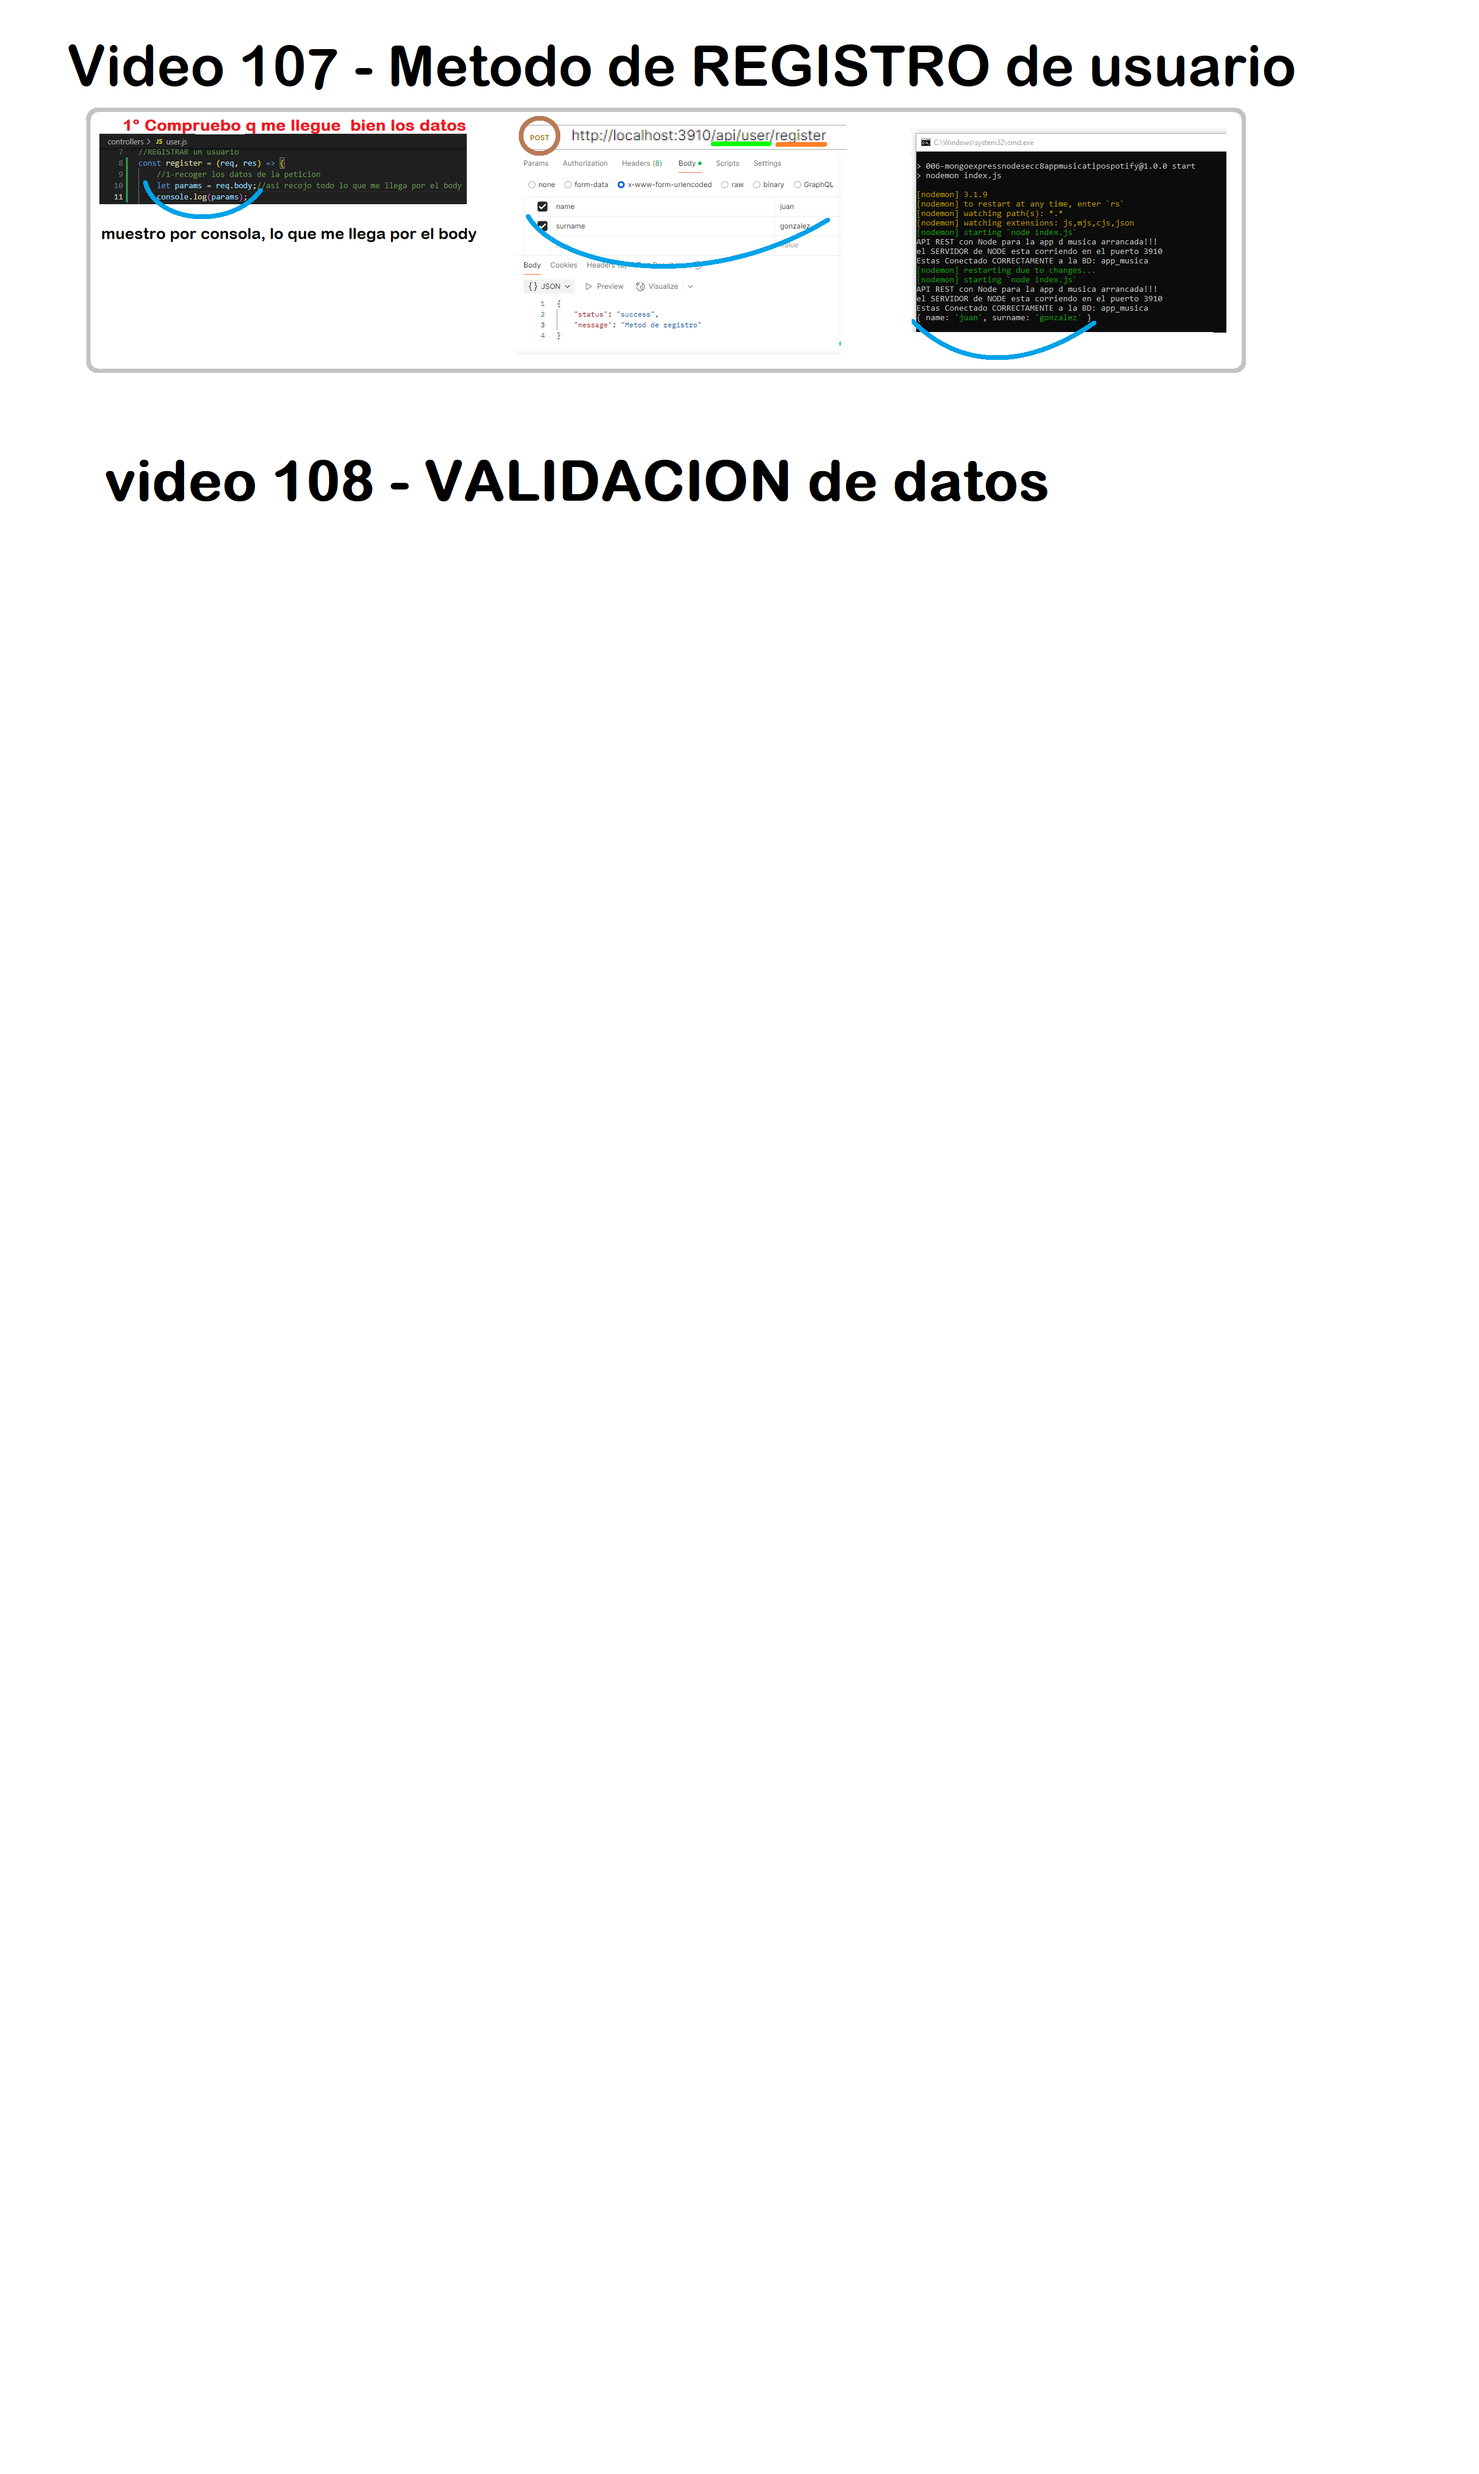
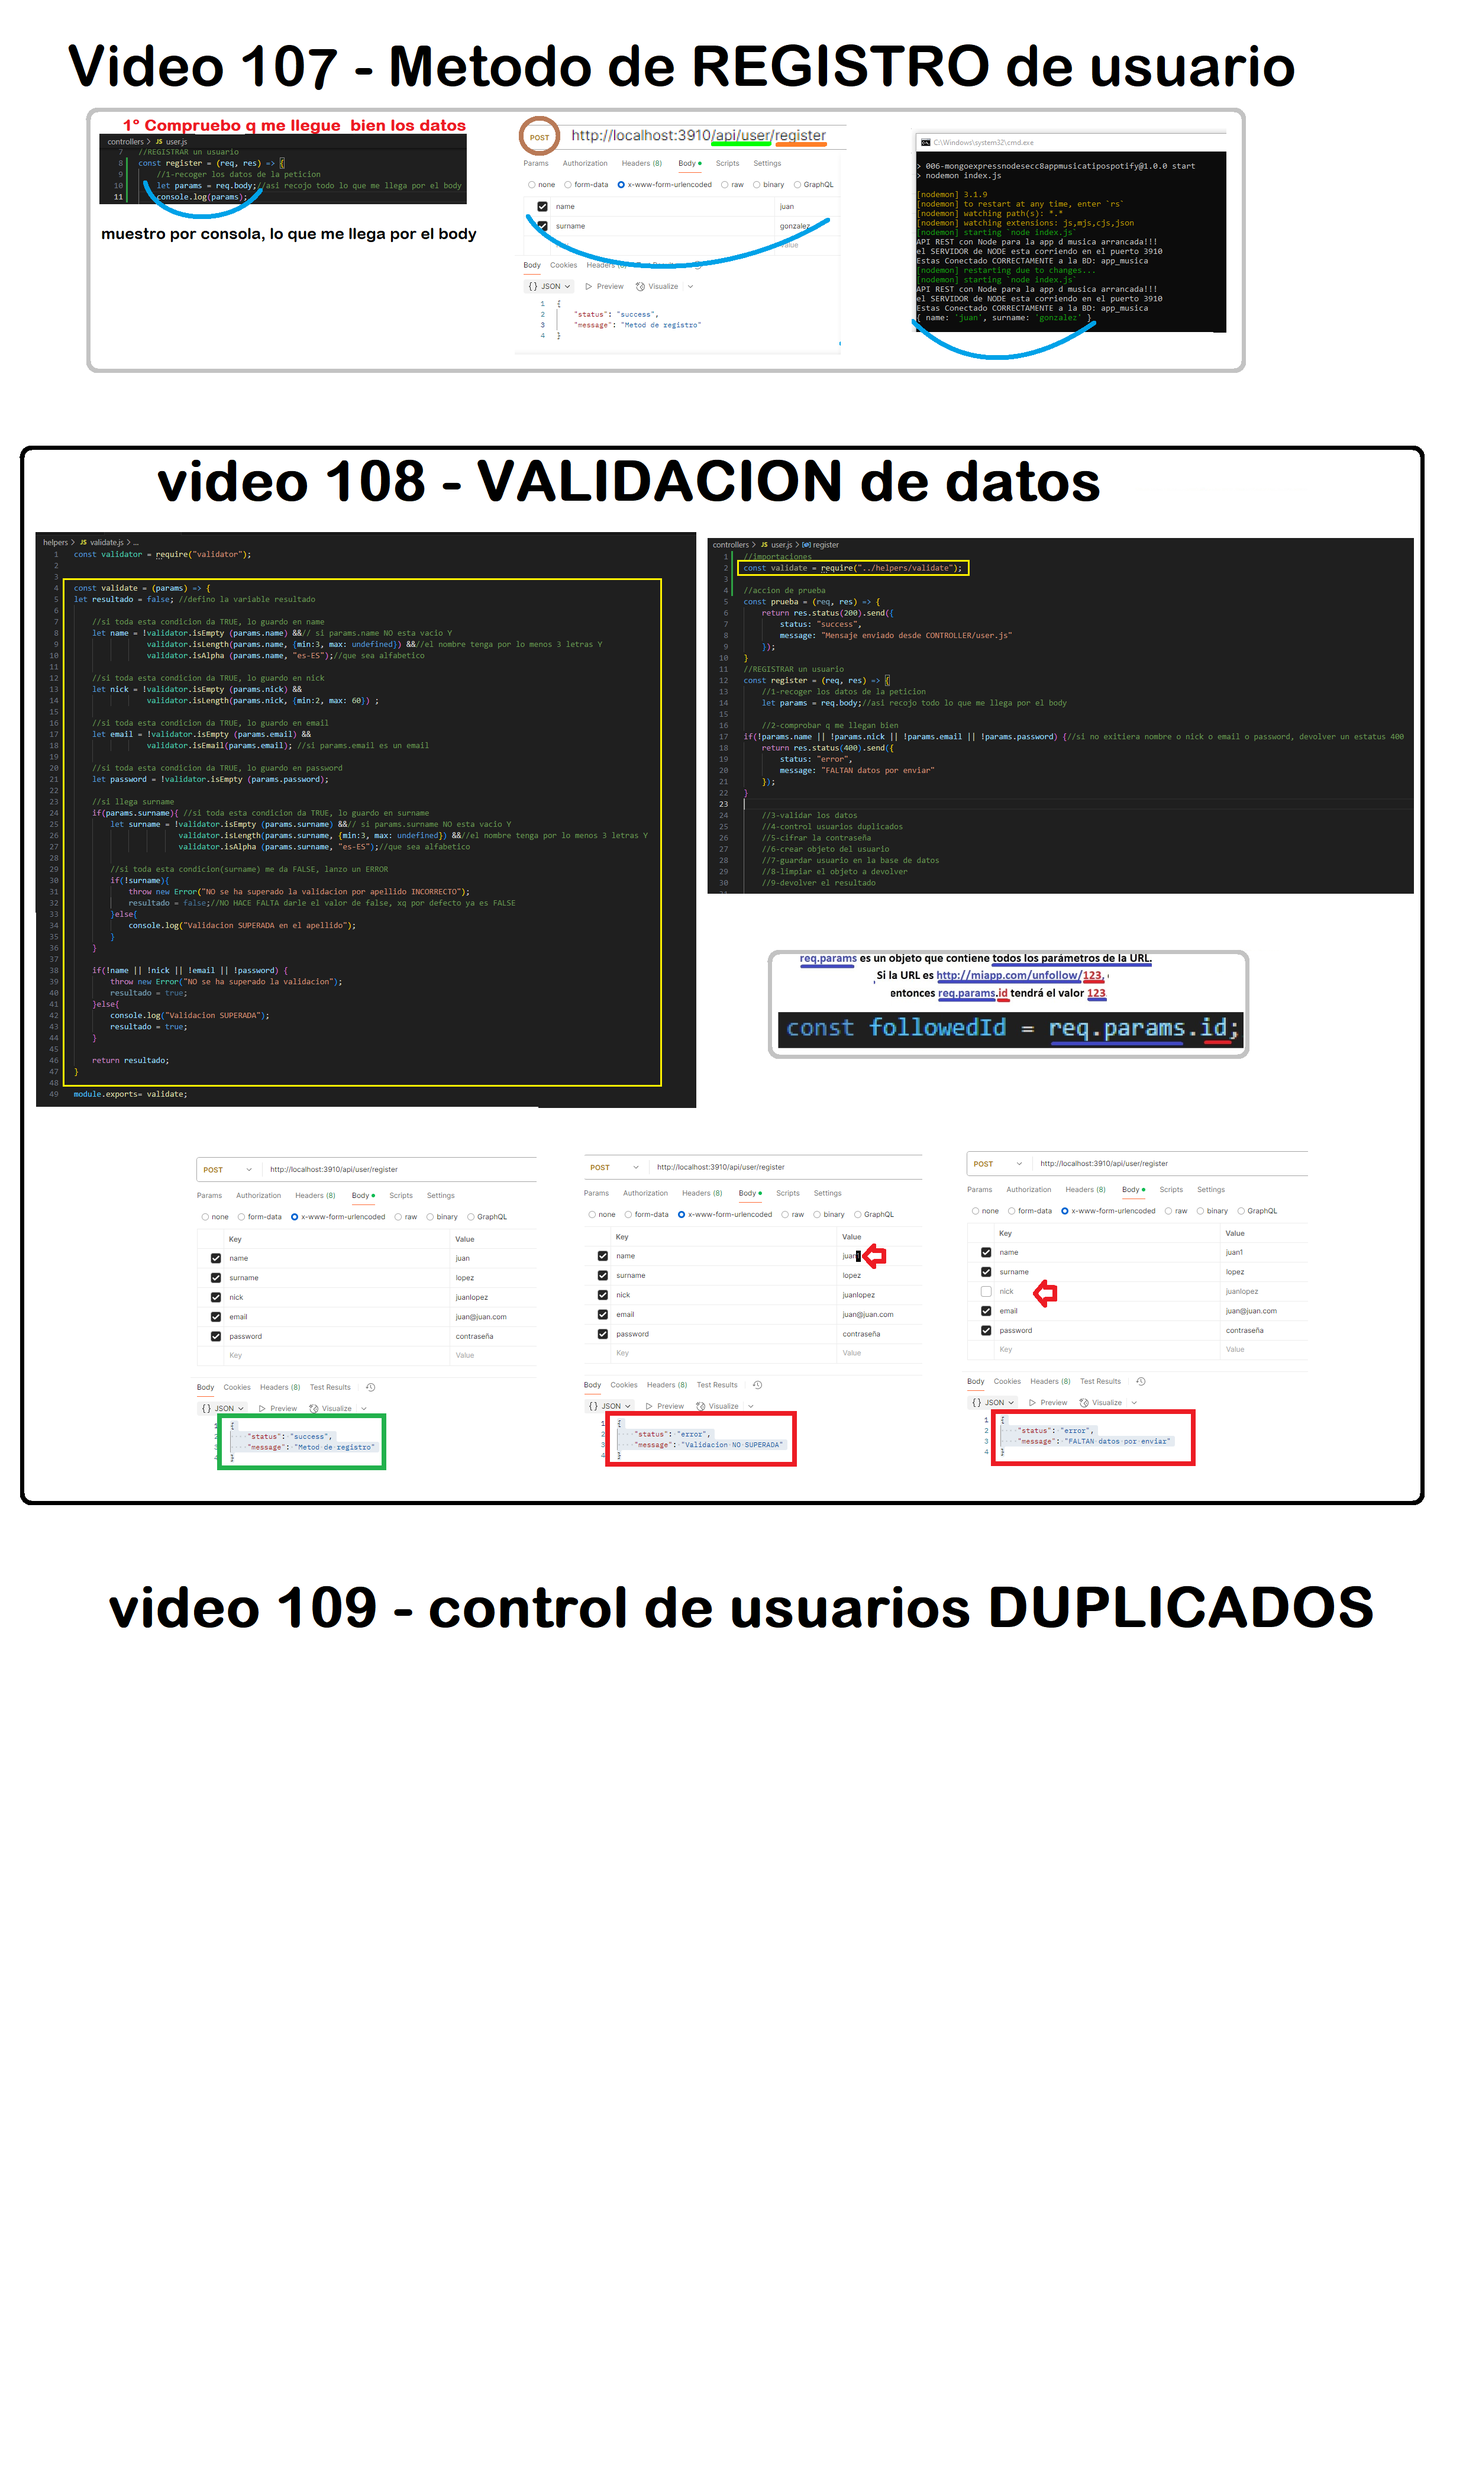
7° V.108 validacion de datos

diff --git a/helpers/validate.js b/helpers/validate.js
@@ -1,0 +1,49 @@
+const validator = require("validator");
+
+
+const validate = (params) => {
+let resultado = false; //defino la variable resultado
+
+    //si toda esta condicion da TRUE, lo guardo en name
+    let name = !validator.isEmpty (params.name) &&// si params.name NO esta vacio Y
+                validator.isLength(params.name, {min:3, max: undefined}) &&//el nombre tenga por lo menos 3 letras Y
+                validator.isAlpha (params.name, "es-ES");//que sea alfabetico
+
+    //si toda esta condicion da TRUE, lo guardo en nick
+    let nick = !validator.isEmpty (params.nick) &&
+                validator.isLength(params.nick, {min:2, max: 60}) ;
+
+    //si toda esta condicion da TRUE, lo guardo en email
+    let email = !validator.isEmpty (params.email) &&
+                validator.isEmail(params.email); //si params.email es un email
+
+    //si toda esta condicion da TRUE, lo guardo en password
+    let password = !validator.isEmpty (params.password);
+
+    //si llega surname
+    if(params.surname){ //si toda esta condicion da TRUE, lo guardo en surname
+        let surname = !validator.isEmpty (params.surname) &&// si params.surname NO esta vacio Y
+                       validator.isLength(params.surname, {min:3, max: undefined}) &&//el nombre tenga por lo menos 3 letras Y
+                       validator.isAlpha (params.surname, "es-ES");//que sea alfabetico
+
+        //si toda esta condicion(surname) me da FALSE, lanzo un ERROR
+        if(!surname){
+            throw new Error("NO se ha superado la validacion por apellido INCORRECTO");
+            resultado = false;//NO HACE FALTA darle el valor de false, xq por defecto ya es FALSE
+        }else{
+            console.log("Validacion SUPERADA en el apellido");
+        }
+    }
+
+    if(!name || !nick || !email || !password) {
+        throw new Error("NO se ha superado la validacion");
+        resultado = true;
+    }else{
+        console.log("Validacion SUPERADA");
+        resultado = true;
+    }
+    
+    return resultado;
+}
+
+module.exports= validate;

diff --git a/controllers/user.js b/controllers/user.js
@@ -1,3 +1,7 @@
+//importaciones
+const validate = require("../helpers/validate");
+
+//accion de prueba
 const prueba = (req, res) => {
     return res.status(200).send({
         status: "success",
@@ -18,6 +22,15 @@ if(!params.name || !params.nick || !params.email || !params.password) {//si no e
 }
 
     //3-validar los datos
+   try{
+    validate(params);
+   }catch(error){
+    return res.status(400).send({
+        status: "error",
+        message: "Validacion NO SUPERADA"
+    });
+   }
+
     //4-control usuarios duplicados
     //5-cifrar la contraseña
     //6-crear objeto del usuario
